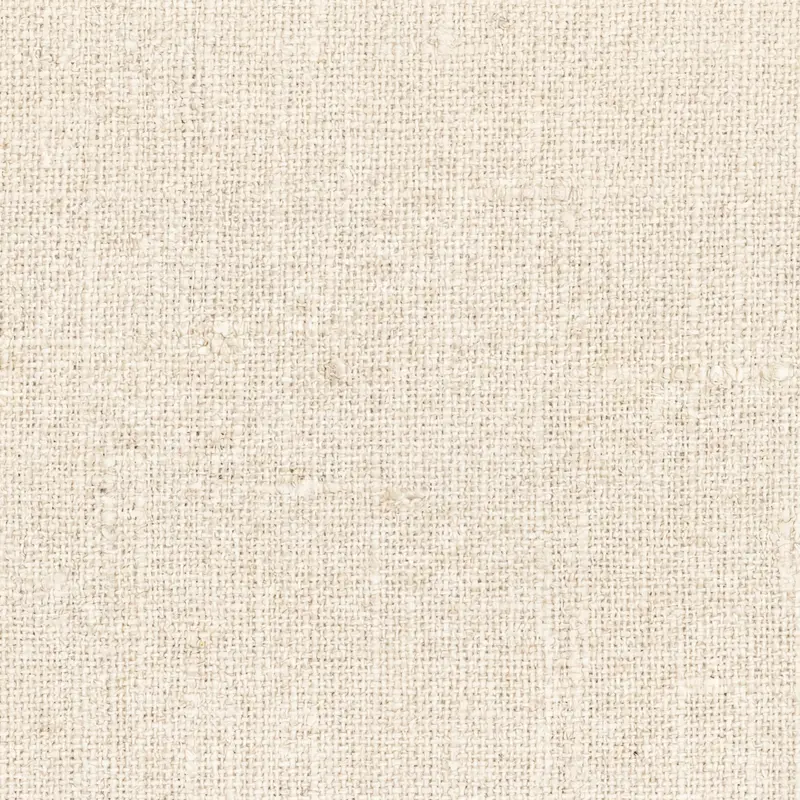
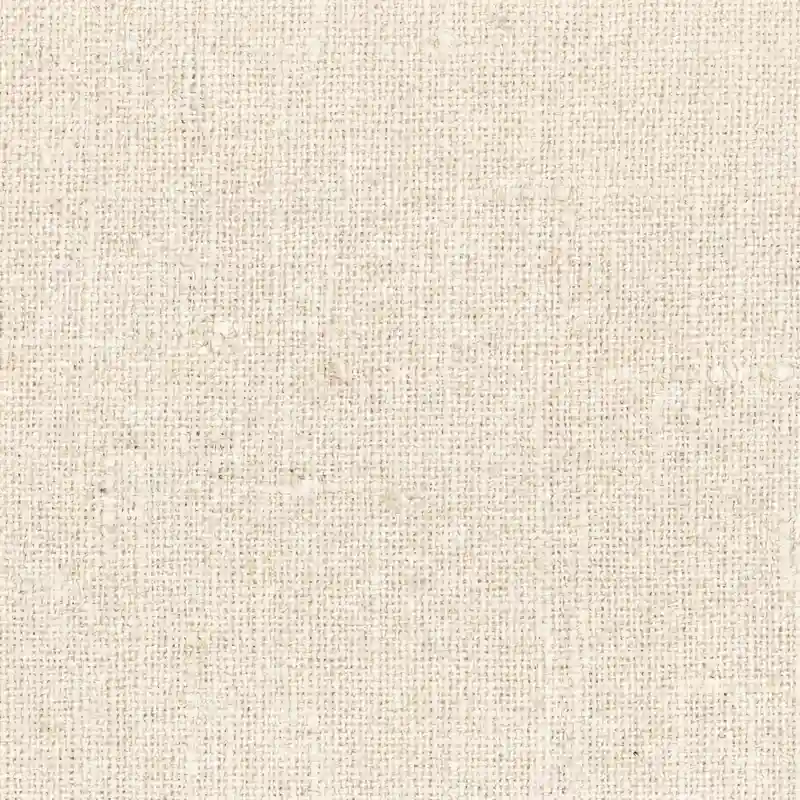
Add asset caching, compressed linen, preview
Add long-lived Cache-Control headers for static assets; replace public/linen.webp with a compressed ~56KB version and update Hero comment. Enhance KeystaticPreview with device-size selector (mobile/tablet/desktop), fullscreen toggle, loading spinner, error state, refresh button, and adaptive panel sizing; use polling to auto-detect route changes. Update ACTION_PLAN and PAGESPEED_ACTION_PLAN to reflect completed tasks and statuses (note: MIME/nginx host config and some items still TODO).

diff --git a/src/components/view/KeystaticPreview/index.tsx b/src/components/view/KeystaticPreview/index.tsx
@@ -1,13 +1,16 @@
 "use client";
 
-import { useState, useEffect } from "react";
+import { useState, useEffect, useCallback } from "react";
 
 /**
- * KeystaticPreview — floating mobile preview panel for the Keystatic admin.
+ * KeystaticPreview — floating preview panel for the Keystatic admin.
  *
- * Shows a 375px-wide iframe of the actual Next.js page being edited.
- * The URL is auto-detected from the current Keystatic route.
- * Preview reflects the last-saved version (not live typing).
+ * Features:
+ * - Device size selector: Mobile (375px), Tablet (768px), Desktop (1024px)
+ * - Auto-detects preview URL from Keystatic route
+ * - Loading spinner + error state for iframe
+ * - Refresh button + fullscreen toggle
+ * - Polls every 1s for route changes, auto-refreshes iframe
  */
 
 const ROUTE_MAP: Record<string, string> = {
@@ -24,6 +27,14 @@ const ROUTE_MAP: Record<string, string> = {
   navigation: "/",
   footer: "/",
   mediaGuidelines: "/admin/media",
+};
+
+type DeviceSize = "mobile" | "tablet" | "desktop";
+
+const DEVICE_SIZES: Record<DeviceSize, { width: number; label: string; panelWidth: number }> = {
+  mobile: { width: 375, label: "Mobile", panelWidth: 420 },
+  tablet: { width: 768, label: "Tablet", panelWidth: 820 },
+  desktop: { width: 1024, label: "Desktop", panelWidth: 1080 },
 };
 
 function getPreviewUrl(pathname: string): string {
@@ -58,6 +69,10 @@ export default function KeystaticPreview() {
   const [open, setOpen] = useState(false);
   const [previewUrl, setPreviewUrl] = useState("/");
   const [iframeKey, setIframeKey] = useState(0);
+  const [device, setDevice] = useState<DeviceSize>("mobile");
+  const [fullscreen, setFullscreen] = useState(false);
+  const [loading, setLoading] = useState(true);
+  const [error, setError] = useState(false);
 
   useEffect(() => {
     setPreviewUrl(getPreviewUrl(window.location.pathname));
@@ -70,10 +85,31 @@ export default function KeystaticPreview() {
       if (newUrl !== previewUrl) {
         setPreviewUrl(newUrl);
         setIframeKey((k) => k + 1);
+        setLoading(true);
+        setError(false);
       }
     }, 1000);
     return () => clearInterval(interval);
   }, [previewUrl]);
+
+  const handleRefresh = useCallback(() => {
+    setIframeKey((k) => k + 1);
+    setLoading(true);
+    setError(false);
+  }, []);
+
+  const handleIframeLoad = useCallback(() => {
+    setLoading(false);
+    setError(false);
+  }, []);
+
+  const handleIframeError = useCallback(() => {
+    setLoading(false);
+    setError(true);
+  }, []);
+
+  const currentDevice = DEVICE_SIZES[device];
+  const panelWidth = fullscreen ? "100%" : `${currentDevice.panelWidth}px`;
 
   return (
     <>
@@ -81,8 +117,8 @@ export default function KeystaticPreview() {
       <button
         onClick={() => setOpen((o) => !o)}
         className="fixed bottom-4 right-4 z-[9999] flex h-12 w-12 items-center justify-center rounded-full bg-fern text-white shadow-lg hover:bg-fern/90 transition-colors"
-        aria-label={open ? "Close preview" : "Open mobile preview"}
-        title="Mobile preview"
+        aria-label={open ? "Close preview" : "Open preview"}
+        title="Preview"
       >
         <svg className="h-5 w-5" fill="none" viewBox="0 0 24 24" stroke="currentColor" strokeWidth={2} aria-hidden="true">
           <path strokeLinecap="round" strokeLinejoin="round" d="M12 18h.01M8 21h8a2 2 0 002-2V5a2 2 0 00-2-2H8a2 2 0 00-2 2v14a2 2 0 002 2z" />
@@ -91,15 +127,38 @@ export default function KeystaticPreview() {
 
       {/* Preview panel */}
       {open && (
-        <div className="fixed top-0 right-0 z-[9998] flex h-full w-[420px] flex-col border-l border-gray-200 bg-gray-100 shadow-2xl">
+        <div
+          className="fixed top-0 right-0 z-[9998] flex h-full flex-col border-l border-gray-200 bg-gray-100 shadow-2xl transition-all duration-200"
+          style={{ width: panelWidth }}
+        >
           {/* Header */}
           <div className="flex items-center justify-between border-b border-gray-200 bg-white px-3 py-2">
-            <span className="text-sm font-medium text-gray-700">
-              Preview (375px)
-            </span>
+            {/* Device size selector */}
             <div className="flex gap-1">
+              {(Object.keys(DEVICE_SIZES) as DeviceSize[]).map((d) => (
+                <button
+                  key={d}
+                  onClick={() => {
+                    setDevice(d);
+                    if (fullscreen) setFullscreen(false);
+                  }}
+                  className={`rounded px-2 py-1 text-xs font-medium transition-colors ${
+                    device === d
+                      ? "bg-fern text-white"
+                      : "text-gray-500 hover:bg-gray-100 hover:text-gray-700"
+                  }`}
+                  aria-label={`${DEVICE_SIZES[d].label} preview (${DEVICE_SIZES[d].width}px)`}
+                  aria-pressed={device === d}
+                >
+                  {DEVICE_SIZES[d].label}
+                </button>
+              ))}
+            </div>
+
+            <div className="flex gap-1">
+              {/* Refresh */}
               <button
-                onClick={() => setIframeKey((k) => k + 1)}
+                onClick={handleRefresh}
                 className="rounded p-1.5 text-gray-500 hover:bg-gray-100 hover:text-gray-700 transition-colors"
                 aria-label="Refresh preview"
                 title="Refresh"
@@ -108,6 +167,22 @@ export default function KeystaticPreview() {
                   <path strokeLinecap="round" strokeLinejoin="round" d="M4 4v5h.582m15.356 2A8.001 8.001 0 004.582 9m0 0H9m11 11v-5h-.581m0 0a8.003 8.003 0 01-15.357-2m15.357 2H15" />
                 </svg>
               </button>
+              {/* Fullscreen toggle */}
+              <button
+                onClick={() => setFullscreen((f) => !f)}
+                className="rounded p-1.5 text-gray-500 hover:bg-gray-100 hover:text-gray-700 transition-colors"
+                aria-label={fullscreen ? "Exit fullscreen" : "Fullscreen preview"}
+                title={fullscreen ? "Exit fullscreen" : "Fullscreen"}
+              >
+                <svg className="h-4 w-4" fill="none" viewBox="0 0 24 24" stroke="currentColor" strokeWidth={2} aria-hidden="true">
+                  {fullscreen ? (
+                    <path strokeLinecap="round" strokeLinejoin="round" d="M9 9V4.5M9 9H4.5M9 9L3.75 3.75M9 15v4.5M9 15H4.5M9 15l-5.25 5.25M15 9h4.5M15 9V4.5M15 9l5.25-5.25M15 15h4.5M15 15v4.5m0-4.5l5.25 5.25" />
+                  ) : (
+                    <path strokeLinecap="round" strokeLinejoin="round" d="M3.75 3.75v4.5m0-4.5h4.5m-4.5 0L9 9M3.75 20.25v-4.5m0 4.5h4.5m-4.5 0L9 15M20.25 3.75h-4.5m4.5 0v4.5m0-4.5L15 9m5.25 11.25h-4.5m4.5 0v-4.5m0 4.5L15 15" />
+                  )}
+                </svg>
+              </button>
+              {/* Close */}
               <button
                 onClick={() => setOpen(false)}
                 className="rounded p-1.5 text-gray-500 hover:bg-gray-100 hover:text-gray-700 transition-colors"
@@ -121,17 +196,41 @@ export default function KeystaticPreview() {
           </div>
 
           {/* URL bar */}
-          <div className="border-b border-gray-200 bg-white px-3 py-1.5">
-            <span className="text-xs text-gray-400">{previewUrl}</span>
+          <div className="border-b border-gray-200 bg-white px-3 py-1.5 flex items-center gap-2">
+            <span className="text-xs text-gray-400 truncate flex-1">{previewUrl}</span>
+            <span className="text-xs text-gray-300">{currentDevice.width}px</span>
           </div>
 
-          {/* Iframe container — centered 375px phone width */}
-          <div className="flex flex-1 items-start justify-center overflow-hidden bg-gray-100 p-3">
+          {/* Iframe container */}
+          <div className="relative flex flex-1 items-start justify-center overflow-hidden bg-gray-100 p-3">
+            {/* Loading spinner */}
+            {loading && (
+              <div className="absolute inset-0 z-10 flex items-center justify-center bg-gray-100/80">
+                <div className="h-8 w-8 animate-spin rounded-full border-4 border-fern/30 border-t-fern" />
+              </div>
+            )}
+
+            {/* Error state */}
+            {error && (
+              <div className="absolute inset-0 z-10 flex flex-col items-center justify-center gap-3 bg-gray-100">
+                <p className="text-sm text-gray-500">Failed to load preview</p>
+                <button
+                  onClick={handleRefresh}
+                  className="rounded bg-fern px-3 py-1.5 text-sm text-white hover:bg-fern/90 transition-colors"
+                >
+                  Retry
+                </button>
+              </div>
+            )}
+
             <iframe
               key={iframeKey}
               src={previewUrl}
-              className="h-full w-[375px] rounded-lg border border-gray-300 bg-white shadow-sm"
-              title="Mobile preview"
+              className="h-full rounded-lg border border-gray-300 bg-white shadow-sm"
+              style={{ width: `${currentDevice.width}px` }}
+              title={`${currentDevice.label} preview`}
+              onLoad={handleIframeLoad}
+              onError={handleIframeError}
             />
           </div>
         </div>

diff --git a/next.config.ts b/next.config.ts
@@ -85,6 +85,16 @@ const nextConfig: NextConfig = {
   // Security headers
   async headers() {
     return [
+      // Cache static assets (images, fonts, textures) for 1 year
+      {
+        source: "/:path*.(webp|jpg|jpeg|png|svg|ico|woff|woff2|ttf|eot)",
+        headers: [
+          {
+            key: "Cache-Control",
+            value: "public, max-age=31536000, immutable",
+          },
+        ],
+      },
       {
         source: "/(.*)",
         headers: [

diff --git a/src/components/view/Hero/index.tsx b/src/components/view/Hero/index.tsx
@@ -19,7 +19,7 @@ type HeroProps = {
  * rendered HTML immediately with zero JS hydration cost, then CSS @keyframes
  * handle the entrance animation.
  *
- * Background uses the compressed linen.webp texture (~130KB vs 11MB original).
+ * Background uses the compressed linen.webp texture (~56KB vs 11MB original).
  * The image is preloaded via <link rel="preload"> in layout.tsx <head>.
  */
 export default function Hero({

diff --git a/PAGESPEED_ACTION_PLAN.md b/PAGESPEED_ACTION_PLAN.md
@@ -399,19 +399,19 @@ If using GitHub Actions, add a workflow that runs LHCI on PRs to catch performan
 
 ## Priority Execution Order
 
-| Order | Phase | Est. Hours | Impact Score |
-|-------|-------|------------|-------------|
-| 🔴 1st | Phase 0: MIME type fix | 1-2h | CRITICAL — fixes broken JS/CSS in production |
-| 🔴 2nd | Phase 1a: Compress linen/paper textures | 1h | LCP -2,600ms |
-| 🔴 3rd | Phase 2a: Fix Hero initial="hidden" | 1h | LCP -1,200ms |
-| 🔴 4th | Phase 1c: BigCommerce remotePatterns + remove unoptimized | 30min | -250KB page weight |
-| 🟠 5th | Phase 2b: Lazy-load EmailCaptureModal + CartSlideout | 1h | TBT -100ms, defer ~50KB JS |
-| 🟠 6th | Phase 1b: Resize logo | 30min | Fixes aspect ratio, saves preload bandwidth |
-| 🟠 7th | Phase 3a+3b: optimizePackageImports + browserslist | 30min | TBT -50ms, -19KB JS |
-| 🟡 8th | Phase 4a-4c: Console errors + hydration fix | 2h | Best Practices 71→90+ |
-| 🟡 9th | Phase 5a: Cache CMS reads | 1h | TTFB -200ms |
-| 🟡 10th | Phase 3c+4d+4e: CSS cleanup + a11y + cookies | 1h | Polish |
-| ⚪ 11th | Phase 5b+6: deviceSizes + LHCI CI | 1h | Future-proofing |
+| Order | Phase | Est. Hours | Impact Score | Status |
+|-------|-------|------------|-------------|--------|
+| 🔴 1st | Phase 0: MIME type fix | 1-2h | CRITICAL — fixes broken JS/CSS in production | ⏳ Needs Hostinger nginx config |
+| 🔴 2nd | Phase 1a: Compress linen/paper textures | 1h | LCP -2,600ms | ✅ DONE — linen.webp 56KB, paper.webp 3KB |
+| 🔴 3rd | Phase 2a: Fix Hero initial="hidden" | 1h | LCP -1,200ms | ✅ DONE — Server Component with CSS animations |
+| 🔴 4th | Phase 1c: BigCommerce remotePatterns + remove unoptimized | 30min | -250KB page weight | ✅ DONE — remotePatterns added, no unoptimized props found |
+| 🟠 5th | Phase 2b: Lazy-load EmailCaptureModal + CartSlideout | 1h | TBT -100ms, defer ~50KB JS | ✅ DONE — both dynamically imported |
+| 🟠 6th | Phase 1b: Resize logo | 30min | Fixes aspect ratio, saves preload bandwidth | ⏳ TODO |
+| 🟠 7th | Phase 3a+3b: optimizePackageImports + browserslist | 30min | TBT -50ms, -19KB JS | ✅ DONE — framer-motion + lucide-react + radix optimized |
+| 🟡 8th | Phase 4a-4c: Console errors + hydration fix | 2h | Best Practices 71→90+ | ⏳ TODO |
+| 🟡 9th | Phase 5a: Cache CMS reads | 1h | TTFB -200ms | ✅ DONE — unstable_cache in layout.tsx |
+| 🟡 10th | Phase 3c+4d+4e: CSS cleanup + a11y + cookies | 1h | Polish | ⏳ TODO |
+| ⚪ 11th | Phase 5b+6: deviceSizes + LHCI CI | 1h | Future-proofing | ✅ DONE — deviceSizes in next.config.ts |
 
 **Total estimated work: ~11-14 hours**
 

diff --git a/ACTION_PLAN.md b/ACTION_PLAN.md
@@ -29,9 +29,9 @@ These must be done *before* the campaign starts. **The store does not need to be
 
 | # | Task | Category | Done? |
 |---|------|----------|-------|
-| 1 | Update logo from "Minimal Store" → "Mama Fern" | 🔧 Build | [ ] |
-| 2 | Update page metadata (title, description, OG image) | 🔧 Build | [ ] |
-| 3 | Apply brand palette to `tailwind.config.ts` (cream, fern green, sage, terracotta) | 🔧 Build | [ ] |
+| 1 | Update logo from "Minimal Store" → "Mama Fern" | 🔧 Build | [x] |
+| 2 | Update page metadata (title, description, OG image) | 🔧 Build | [x] |
+| 3 | Apply brand palette to `tailwind.config.ts` (cream, fern green, sage, terracotta) | 🔧 Build | [x] |
 | 4 | Get products into Shopify admin with photos, variants, prices | 🛍 Shopify | [ ] |
 | 5 | Create collections: Moms, Kids, Family Sets, Mother's Day 2026 | 🛍 Shopify | [ ] |
 | 6 | Build a waitlist landing page at mamafern.com (email capture, one hero image) | 🔧 Build | [ ] |
